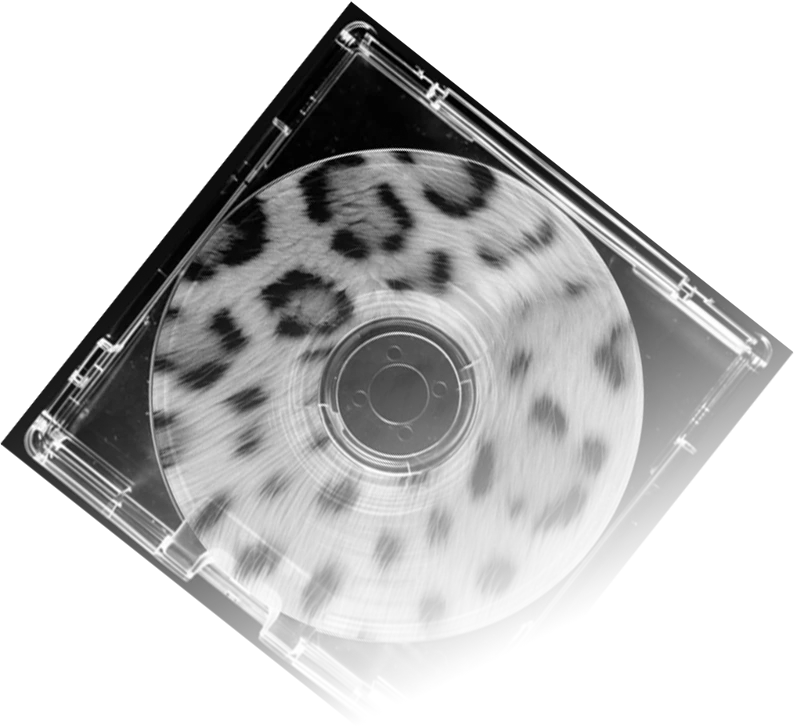
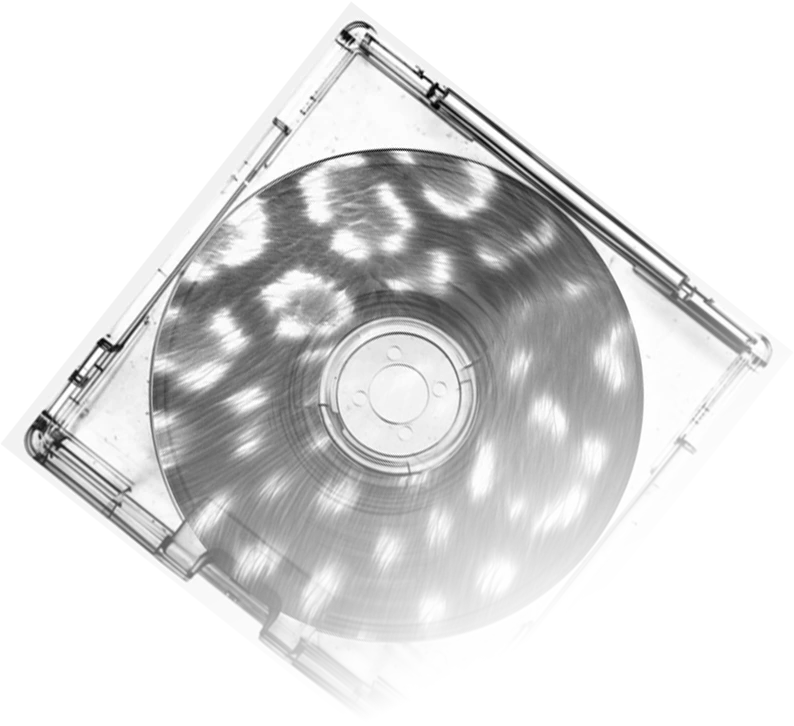
fix: transparent decoration images, visible mobile nav, crisp profile photo

diff --git a/src/components/react-bits/ProfileCard/ProfileCard.tsx b/src/components/react-bits/ProfileCard/ProfileCard.tsx
@@ -445,7 +445,7 @@ const ProfileCardComponent: React.FC<ProfileCardProps> = ({
     <div
       ref={wrapRef}
       className={`relative touch-none ${className}`.trim()}
-      style={cardStyle as React.CSSProperties}
+      style={{ ...cardStyle, perspective: '900px' } as React.CSSProperties}
     >
       {behindGlowEnabled && (
         <div
@@ -469,14 +469,14 @@ const ProfileCardComponent: React.FC<ProfileCardProps> = ({
             boxShadow:
               'rgba(0, 0, 0, 0.8) calc((var(--pointer-from-left) * 10px) - 3px) calc((var(--pointer-from-top) * 20px) - 6px) 20px -5px',
             transition: 'transform 1s ease',
-            transform: 'perspective(500px) translateZ(0) rotateX(0deg) rotateY(0deg)',
+            transform: 'none',
             background: 'rgba(0, 0, 0, 0.9)',
             backfaceVisibility: 'hidden'
           }}
           onMouseEnter={e => {
             e.currentTarget.style.transition = 'none';
             e.currentTarget.style.transform =
-              'perspective(500px) translateZ(0) rotateX(var(--rotate-y)) rotateY(var(--rotate-x))';
+              'rotateX(var(--rotate-y)) rotateY(var(--rotate-x))';
           }}
           onMouseLeave={e => {
             const shell = shellRef.current;
@@ -485,8 +485,7 @@ const ProfileCardComponent: React.FC<ProfileCardProps> = ({
             } else {
               e.currentTarget.style.transition = 'transform 1s ease';
             }
-            e.currentTarget.style.transform =
-              'perspective(500px) translateZ(0) rotateX(0deg) rotateY(0deg)';
+            e.currentTarget.style.transform = 'none';
           }}
         >
           <div
@@ -509,27 +508,24 @@ const ProfileCardComponent: React.FC<ProfileCardProps> = ({
             <div
               className="overflow-visible"
               style={{
-                mixBlendMode: 'luminosity',
-                transform: 'translateZ(2px)',
+                position: 'relative',
                 gridArea: '1 / -1',
                 borderRadius: cardRadius,
-                pointerEvents: 'none',
-                backfaceVisibility: 'hidden'
+                pointerEvents: 'none'
               }}
             >
               <img
-                className="w-full absolute left-1/2 bottom-[-1px] will-change-transform transition-transform duration-[120ms] ease-out"
+                className="w-full absolute left-1/2 bottom-[-1px] transition-transform duration-[120ms] ease-out"
                 src={avatarUrl}
                 alt={`${name || 'User'} avatar`}
                 loading="lazy"
                 style={{
                   transformOrigin: '50% 100%',
                   transform:
-                    'translateX(calc(-50% + (var(--pointer-from-left) - 0.5) * 6px)) translateZ(0) scaleY(calc(1 + (var(--pointer-from-top) - 0.5) * 0.02)) scaleX(calc(1 + (var(--pointer-from-left) - 0.5) * 0.01))',
+                    'translateX(calc(-50% + (var(--pointer-from-left) - 0.5) * 6px)) scaleY(calc(1 + (var(--pointer-from-top) - 0.5) * 0.02)) scaleX(calc(1 + (var(--pointer-from-left) - 0.5) * 0.01))',
                   objectFit: 'cover',
                   objectPosition: 'center bottom',
-                  borderRadius: cardRadius,
-                  backfaceVisibility: 'hidden'
+                  borderRadius: cardRadius
                 }}
                 onError={e => {
                   const t = e.target as HTMLImageElement;

diff --git a/src/App.tsx b/src/App.tsx
@@ -67,12 +67,12 @@ export default function App() {
 
       {/* ── NAVBAR ── */}
       <header className={`fixed top-0 left-0 right-0 z-50 transition-all duration-300 ${scrolled ? 'bg-black/80 backdrop-blur-md border-b border-white/5' : 'bg-transparent'}`}>
-        <div className="max-w-6xl mx-auto px-4 sm:px-6 py-3 flex items-center justify-between">
+        <div className="max-w-6xl mx-auto px-4 sm:px-6 py-3 flex items-center justify-center">
           {/* Right: logos + nav + theme toggle */}
-          <nav className="flex items-center gap-3 sm:gap-4">
-            <a href="#hero"    className="hidden sm:block text-sm font-medium text-gray-400 hover:text-white transition-colors">About</a>
-            <a href="#biodata" className="hidden sm:block text-sm font-medium text-gray-400 hover:text-white transition-colors">Profile</a>
-            <a href="#contact" className="hidden sm:block text-sm font-medium text-gray-400 hover:text-white transition-colors">Contact</a>
+          <nav className="flex items-center gap-5 sm:gap-8">
+            <a href="#hero"    className="text-sm font-medium text-gray-400 hover:text-white transition-colors">About</a>
+            <a href="#biodata" className="text-sm font-medium text-gray-400 hover:text-white transition-colors">Profile</a>
+            <a href="#contact" className="text-sm font-medium text-gray-400 hover:text-white transition-colors">Contact</a>
           </nav>
         </div>
       </header>

diff --git a/src/index.css b/src/index.css
@@ -140,8 +140,6 @@ body.is-booting {
 .el {
   position: absolute;
   pointer-events: none;
-  mix-blend-mode: screen;
-  filter: invert(1);
   opacity: 0.45;
 }
 
